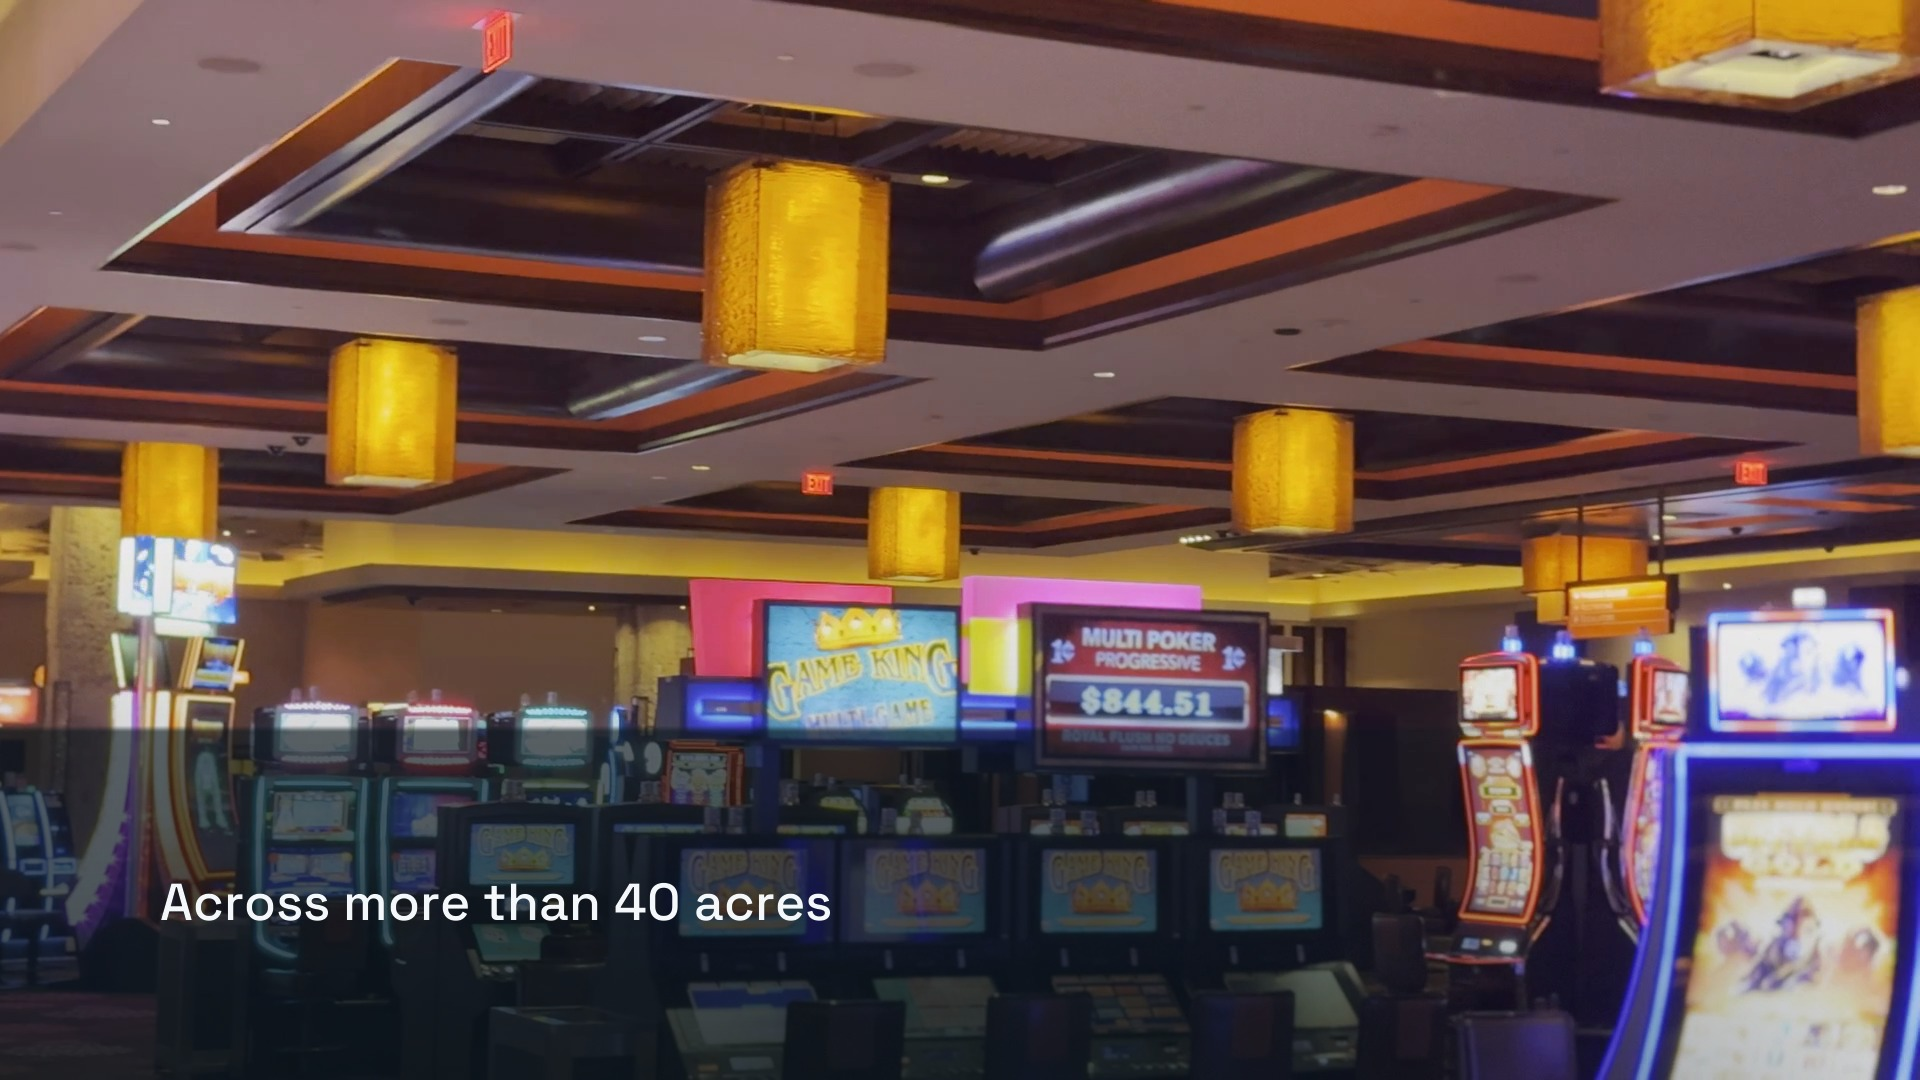
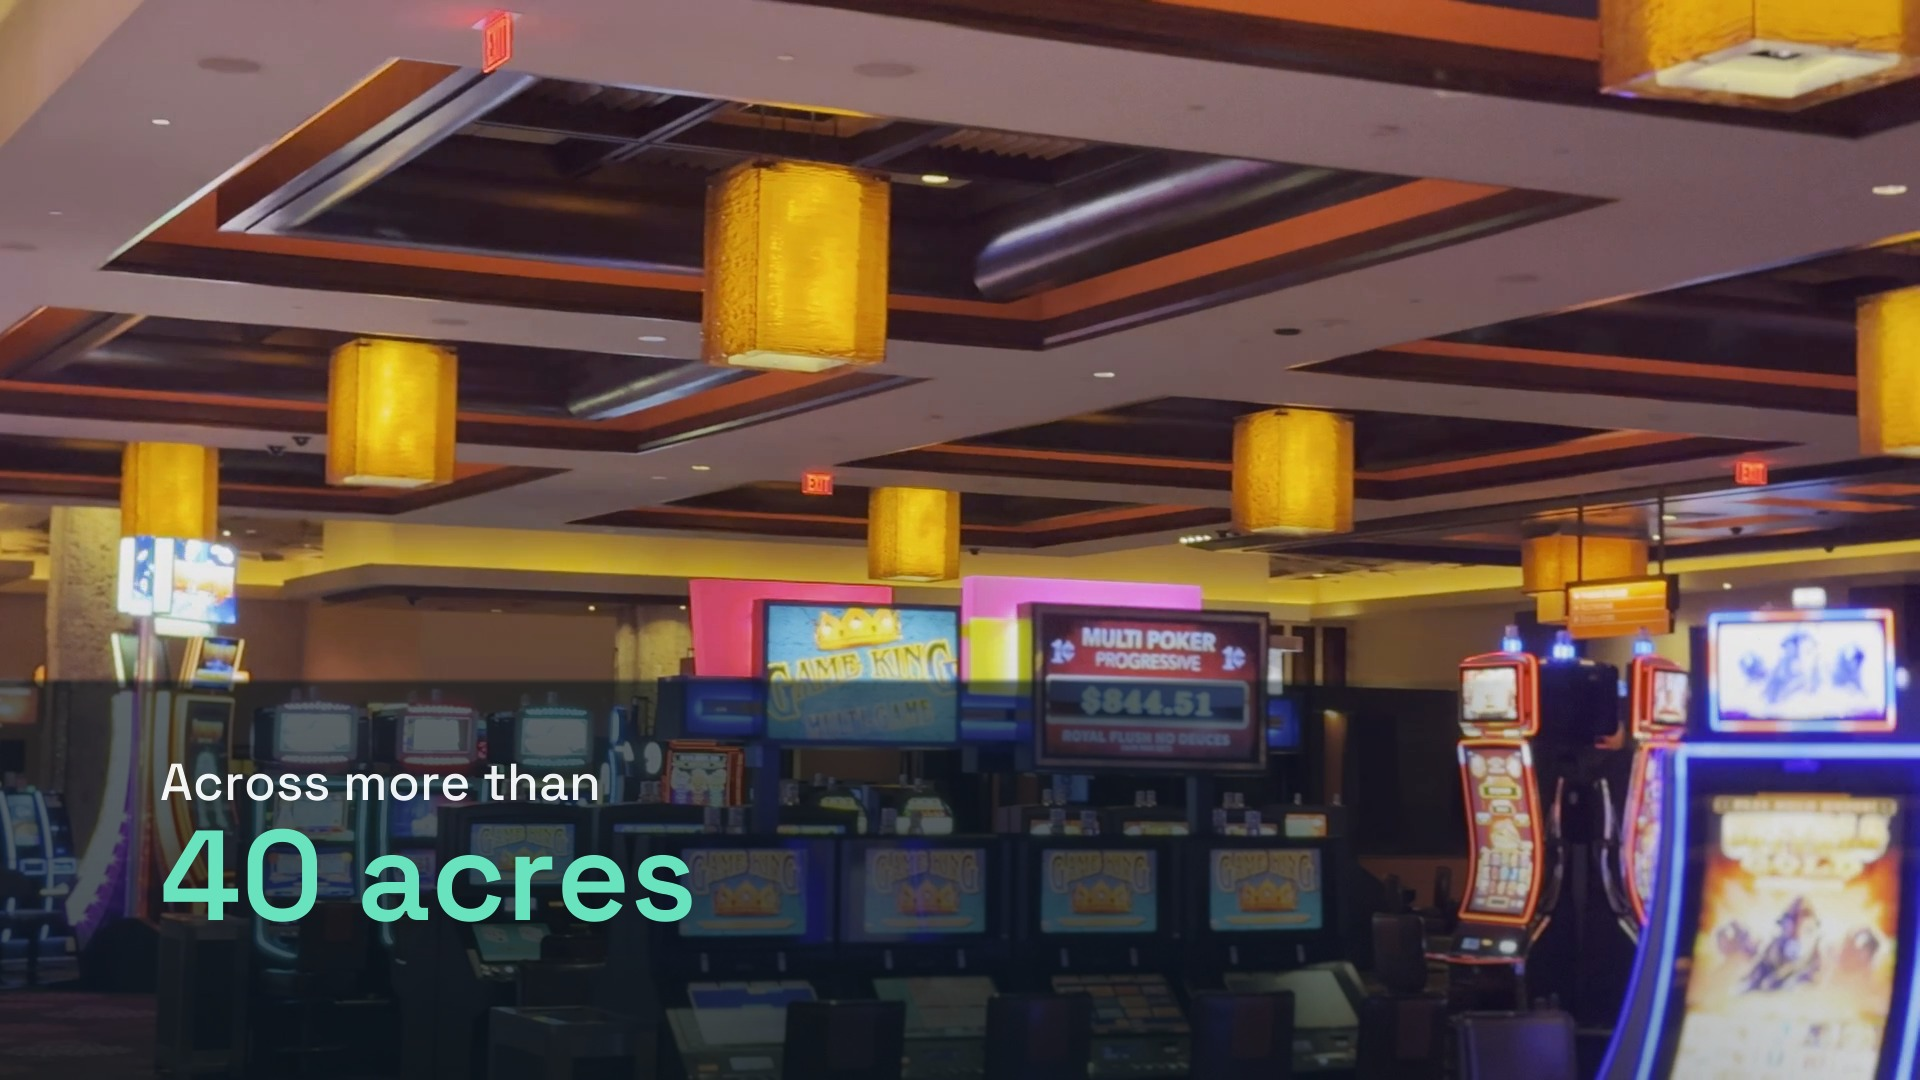
Aliante iMovie card 02 — highlight '40 acres' in mint display scale (matches card 01)
Jane's revise: '40 acres' set in SpaceGrotesk-SemiBold 128px, mint #68E3BE —
same treatment as card 01's '100,000+'. Lead-in 'Across more than' stays
off-white Medium 52 @ 95%. No mint rule. Two-line layout (shared baseline at
128px exceeded the 864 measure; breaking cleanly per brief). S-class plate
(top y=680) matches card 01 geometry. Copy verbatim, no period.

Per-card override of BODY-TREATMENT-LOCK §2/§3.1/§6 (mint type + no rule)
for this card only — not a house rule; lock still governs c02–c19.

Changed region(s): [[0.0, 0.6111, 0.7812, 0.8556]]

diff --git a/video-production/projects/aliante-led/assembly/imovie-handoff-rc2/title-overlays/build_card_02_across_40_acres.py b/video-production/projects/aliante-led/assembly/imovie-handoff-rc2/title-overlays/build_card_02_across_40_acres.py
@@ -1,17 +1,34 @@
 #!/usr/bin/env python3
-"""Render one-off card 02: "Across more than 40 acres" (no period).
+"""Render one-off card 02: "Across more than 40 acres" (no period) — REVISED.
 
 BODY-TREATMENT-LOCK.md rev 2 — two-layer build (bed + plate), N-class geometry.
 One-off card in cards/ (not part of c02-c19 titles.md sequence).
 
-Per-card override (this card only, NOT a house-rule change):
+Jane's rev 11 Sep (this card only — per-card override, NOT a house-rule change):
+  - Highlight "40 acres" the same way as "100,000+" on card 01:
+    SpaceGrotesk-SemiBold display scale (128), color mint #68E3BE.
+  - Lead-in "Across more than" stays readable off-white Medium 52 @ 95%
+    (same hierarchy as "With" on card 01).
   - No mint rule (Jane removed it on card 01; do not bring it back).
-  - No mint type — no display numeral; all words off-white Medium incl "40".
-  - The lock still governs every other body card (c02-c19) unchanged.
+  - Keep plate + bed (rev 2), left-anchored.
+  - Copy verbatim, no period: "Across more than 40 acres"
 
-Variant N: one calm line (fits ~700px inside 864 measure). Left x=160,
-last baseline y=920, N-class plate top edge y=728. Type off-white Medium 52
-(readable, ~48-56; matches card 01 body text for consistency).
+Per-card override of BODY-TREATMENT-LOCK.md (NOT a house-rule change):
+  - §2: "Type is off-white, never mint..."  -> mint goes on "40 acres" here.
+  - §3.1 / §1 / §7: the 56x3 mint rule is removed.
+  - §6: "Nothing after the title slide sets type in mint." -> mint type here.
+  These overrides apply to THIS CARD ONLY. The lock still governs every
+  other body card (c02-c19) unchanged. Only Jane can promote a preference
+  to a universal rule (per the learned-preferences rule, 11 Sep).
+
+Layout: two lines (shared baseline at 128px exceeds the 864 measure, so the
+brief's "break cleanly if measure needs it" fallback applies). Word order
+preserved; "40" stays with "acres" on one line.
+  Line 1: "Across more than" — Medium 52, off-white 95%, baseline y=800
+  Line 2: "40 acres" — SemiBold 128, mint 100%, baseline y=920 (anchor)
+The numeral sits on the anchor at the same 128px display scale as card 01's
+"100,000+", in the same mint #68E3BE. S-class plate (top y=680) matches
+card 01's geometry. 30px gap between line 1 baseline and the numeral cap-top.
 
 Composite order: footage -> bed -> plate -> type (with shadow). No mint rule.
 Never ship plate without bed. No pill, no radius, no centered text.
@@ -30,12 +47,16 @@ CARDS.mkdir(parents=True, exist_ok=True)
 
 W, H = 1920, 1080
 OFF_WHITE = (245, 248, 250)   # #F5F8FA
-NAVY_DEEP = (10, 22, 28)      # #0A161C
+MINT = (104, 227, 190)       # #68E3BE
+NAVY_DEEP = (10, 22, 28)     # #0A161C
 FONT_MEDIUM = FONTS / "SpaceGrotesk-Medium.ttf"
+FONT_SEMIBOLD = FONTS / "SpaceGrotesk-SemiBold.ttf"
 
 LEFT_X = 160
-LAST_BASELINE_Y = 920
+LAST_BASELINE_Y = 920        # anchor — last baseline (line 2, the numeral)
+LINE1_BASELINE_Y = 800        # line 1 (lead-in) — 30px gap above numeral cap-top
 
+# Bed (layer 1) — LOCK §3.2
 BED_PEAK = 0.45
 BED_TOP_Y = 380
 BED_BOTTOM_Y = 1080
@@ -43,8 +64,9 @@ BED_H_FALLOFF_START = 980
 BED_H_FALLOFF_END = 1920
 BED_H_FALLOFF_END_MULT = 0.30
 
+# Plate (layer 2) — LOCK §3.3, S-class (matches card 01's 128px numeral geometry)
 PLATE_DENSITY = 0.62
-PLATE_TOP_Y = 728             # N-class
+PLATE_TOP_Y = 680            # S-class — same as card 01
 PLATE_FULL_DENSITY_X = 1024
 PLATE_FALLOFF_END_X = 1536
 PLATE_FEATHER_PX = 8
@@ -53,10 +75,20 @@ SHADOW_ALPHA = 0.50
 SHADOW_OFFSET = (0, 3)
 SHADOW_BLUR = 22
 
-LINE_TEXT = "Across more than 40 acres"
-MEDIUM_SIZE = 52
-MEDIUM_OPACITY = 1.0
-MEDIUM_TRACKING = 0.52      # +0.01em at 52px
+# Copy (verbatim — Jane's line, no period)
+LEADIN_TEXT = "Across more than"   # Medium 52, off-white 95%
+HIGHLIGHT_TEXT = "40 acres"         # SemiBold 128, mint 100%
+
+# Type sizes — match card 01's numeral pattern
+HIGHLIGHT_SIZE = 128        # SemiBold — display scale, same as card 01's "100,000+"
+MEDIUM_SIZE = 52            # Medium — readable lead-in, same as card 01's "With"
+MEDIUM_OPACITY = 0.95       # ~95%, clearly readable, slightly subordinate
+
+# Tracking
+HIGHLIGHT_TRACKING = -3.84    # -0.03em at 128px (same as card 01 numeral)
+MEDIUM_TRACKING = 0.52        # +0.01em at 52px (same as card 01 lead-in)
+
+MEASURE_LIMIT_X = 1024       # right edge of 864 measure (160 + 864)
 
 
 def run(cmd):
@@ -119,23 +151,38 @@ def _text_width(font, text, tracking):
     return w
 
 
-def draw_line(canvas):
+def draw_two_lines(canvas):
+    """Two-line layout: lead-in (Medium 52, off-white 95%) on line 1, highlight
+    (SemiBold 128, mint 100%) on line 2 (the anchor). Word order preserved;
+    "40" stays with "acres" on one line."""
     font_med = ImageFont.truetype(str(FONT_MEDIUM), MEDIUM_SIZE)
-    fill = (OFF_WHITE[0], OFF_WHITE[1], OFF_WHITE[2], int(round(255 * MEDIUM_OPACITY)))
+    font_semi = ImageFont.truetype(str(FONT_SEMIBOLD), HIGHLIGHT_SIZE)
+    fill_med = (OFF_WHITE[0], OFF_WHITE[1], OFF_WHITE[2], int(round(255 * MEDIUM_OPACITY)))
+    fill_hl = (MINT[0], MINT[1], MINT[2], 255)
+
+    # Shadow layer for both lines
     shadow_layer = Image.new("RGBA", (W, H), (0, 0, 0, 0))
     sd = ImageDraw.Draw(shadow_layer)
-    sd.text((LEFT_X + SHADOW_OFFSET[0], LAST_BASELINE_Y + SHADOW_OFFSET[1]),
-            LINE_TEXT, font=font_med,
+    sd.text((LEFT_X + SHADOW_OFFSET[0], LINE1_BASELINE_Y + SHADOW_OFFSET[1]),
+            LEADIN_TEXT, font=font_med,
             fill=(NAVY_DEEP[0], NAVY_DEEP[1], NAVY_DEEP[2], 255),
             anchor="ls", tracking=MEDIUM_TRACKING)
+    sd.text((LEFT_X + SHADOW_OFFSET[0], LAST_BASELINE_Y + SHADOW_OFFSET[1]),
+            HIGHLIGHT_TEXT, font=font_semi,
+            fill=(NAVY_DEEP[0], NAVY_DEEP[1], NAVY_DEEP[2], 255),
+            anchor="ls", tracking=HIGHLIGHT_TRACKING)
     shadow_layer = shadow_layer.filter(ImageFilter.GaussianBlur(radius=SHADOW_BLUR))
     r, g, b, a = shadow_layer.split()
     a = a.point(lambda v: int(v * SHADOW_ALPHA))
     shadow_layer = Image.merge("RGBA", (r, g, b, a))
     canvas = Image.alpha_composite(canvas, shadow_layer)
+
+    # Actual text
     draw = ImageDraw.Draw(canvas)
-    draw.text((LEFT_X, LAST_BASELINE_Y), LINE_TEXT, font=font_med,
-              fill=fill, anchor="ls", tracking=MEDIUM_TRACKING)
+    draw.text((LEFT_X, LINE1_BASELINE_Y), LEADIN_TEXT, font=font_med,
+              fill=fill_med, anchor="ls", tracking=MEDIUM_TRACKING)
+    draw.text((LEFT_X, LAST_BASELINE_Y), HIGHLIGHT_TEXT, font=font_semi,
+              fill=fill_hl, anchor="ls", tracking=HIGHLIGHT_TRACKING)
     return canvas
 
 
@@ -143,8 +190,42 @@ def render_card():
     canvas = Image.new("RGBA", (W, H), (0, 0, 0, 0))
     canvas = Image.alpha_composite(canvas, build_bed())
     canvas = Image.alpha_composite(canvas, build_plate())
-    canvas = draw_line(canvas)
+    canvas = draw_two_lines(canvas)
     return canvas
+
+
+def main():
+    font_med = ImageFont.truetype(str(FONT_MEDIUM), MEDIUM_SIZE)
+    font_semi = ImageFont.truetype(str(FONT_SEMIBOLD), HIGHLIGHT_SIZE)
+
+    leadin_w = _text_width(font_med, LEADIN_TEXT, MEDIUM_TRACKING)
+    highlight_w = _text_width(font_semi, HIGHLIGHT_TEXT, HIGHLIGHT_TRACKING)
+    line1_right = LEFT_X + leadin_w
+    line2_right = LEFT_X + highlight_w
+
+    print("Layout: two lines (shared baseline at 128px exceeds measure 864;")
+    print("  breaking cleanly per brief). Word order preserved; '40' with 'acres'.")
+    print(f"  line 1: '{LEADIN_TEXT}' Medium 52 off-white 95% -> right x={line1_right} (limit {MEASURE_LIMIT_X})")
+    print(f"  line 2: '{HIGHLIGHT_TEXT}' SemiBold 128 mint -> right x={line2_right} (limit {MEASURE_LIMIT_X})")
+
+    p_overlay = CARDS / "card-02-across-40-acres-transparent.png"
+    overlay = render_card()
+    overlay.save(p_overlay)
+    print(f"\nWROTE {p_overlay.name}  ({p_overlay.stat().st_size} bytes)")
+
+    # Composite over same clip as before
+    clip003 = TIMELINE / "003-s03-Casino 3-gaming-acres.mp4"
+    frame003 = CARDS / "_frame-003-s03-card02.png"
+    grab_frame(clip003, 2.0, frame003)
+    prev = CARDS / "card-02-across-40-acres-preview.jpg"
+    composite(frame003, p_overlay, prev)
+    print(f"WROTE {prev.name}  ({prev.stat().st_size} bytes)")
+
+    if frame003.exists():
+        frame003.unlink()
+
+    print("\nDONE. Revised one-off card 02 files in:")
+    print(f"  {CARDS}")
 
 
 def grab_frame(clip, ts, out):
@@ -160,31 +241,6 @@ def composite(frame_png, overlay_png, out):
     ov = Image.open(overlay_png).convert("RGBA")
     comp = Image.alpha_composite(bg, ov).convert("RGB")
     comp.save(out, quality=92)
-
-
-def main():
-    p_overlay = CARDS / "card-02-across-40-acres-transparent.png"
-    overlay = render_card()
-    overlay.save(p_overlay)
-    print(f"WROTE {p_overlay.name}  ({p_overlay.stat().st_size} bytes)")
-
-    font_med = ImageFont.truetype(str(FONT_MEDIUM), MEDIUM_SIZE)
-    line_w = _text_width(font_med, LINE_TEXT, MEDIUM_TRACKING)
-    line_right = LEFT_X + line_w
-    print(f"  line: '{LINE_TEXT}' w={line_w} -> right x={line_right} (limit 1024)")
-
-    clip003 = TIMELINE / "003-s03-Casino 3-gaming-acres.mp4"
-    frame003 = CARDS / "_frame-003-s03-card02.png"
-    grab_frame(clip003, 2.0, frame003)
-    prev = CARDS / "card-02-across-40-acres-preview.jpg"
-    composite(frame003, p_overlay, prev)
-    print(f"WROTE {prev.name}  ({prev.stat().st_size} bytes)")
-
-    if frame003.exists():
-        frame003.unlink()
-
-    print("\nDONE. One-off card 02 files in:")
-    print(f"  {CARDS}")
 
 
 if __name__ == "__main__":

diff --git a/video-production/projects/aliante-led/assembly/imovie-handoff-rc2/title-overlays/cards/card-02-NOTES.md b/video-production/projects/aliante-led/assembly/imovie-handoff-rc2/title-overlays/cards/card-02-NOTES.md
@@ -1,14 +1,15 @@
 # Card 02 — "Across more than 40 acres" — one-off card
 
 **Rendered:** 11 Sep 2026 · GLM · per `../BODY-TREATMENT-LOCK.md` rev 2 (N-class plate geometry)
+**Revised:** 11 Sep 2026 · GLM · Jane's highlight revise — `40 acres` in mint display scale matching card 01's `100,000+` pattern (see "Jane's rev (this card)" below).
 
-This is a **one-off card** — not part of the c02–c19 sequence in `../titles.md`. It lives in `cards/`, separate from `previews/` which holds the c02 series. Jane asked for this single card with her own line (no period).
+This is a **one-off card** — not part of the c02–c19 sequence in `../titles.md`. It lives in `cards/`, separate from `previews/` which holds the c02 series. Jane asked for this single card with her own line (no period), then locked a highlight treatment matching card 01.
 
 ## Files
 
 | File | What it is |
 |---|---|
-| `card-02-across-40-acres-transparent.png` | Transparent 1920×1080 overlay — bed + plate + single-line narrative (**no mint rule**; all text off-white Medium) |
+| `card-02-across-40-acres-transparent.png` | Transparent 1920×1080 overlay — bed + plate + two-line lockup (**no mint rule**; lead-in off-white Medium, `40 acres` mint SemiBold 128) |
 | `card-02-across-40-acres-preview.jpg` | Same overlay composited over a frame from `../../timeline/003-s03-Casino 3-gaming-acres.mp4` (~2.0s) |
 
 ## Copy (verbatim — Jane's line; no period)
@@ -17,51 +18,70 @@ This is a **one-off card** — not part of the c02–c19 sequence in `../titles.
 
 No trailing period. Word order preserved. Not in `titles.md` — this is Jane's new line for this card only. (The `titles.md` c03 string `Across more than 40 acres.` has a period; this one-off card does not.)
 
-## Per-card override of BODY-TREATMENT-LOCK.md (NOT a house-rule change)
+## Jane's rev (this card — 11 Sep)
 
-This card overrides one clause in `../BODY-TREATMENT-LOCK.md` **for this card only**:
+Jane locked a highlight treatment for this card matching card 01's numeral pattern:
 
-- §3.1 / §1 / §7: the 56×3 mint rule is **removed**. Jane removed it on card 01 — looked weird; do not bring it back. The plate top edge stays at the N-class `y=728`; the headroom above the text reads as margin, which is correct per lock §3.3.
+1. **`40 acres` in LUCI mint `#68E3BE`** — SpaceGrotesk-SemiBold, display scale 128px (same size and color as card 01's `100,000+`).
+2. **`Across more than` stays off-white Medium 52 @ 95%** — readable lead-in, same hierarchy as `With` on card 01.
+3. **No mint rule** — Jane removed it on card 01; do not bring it back.
+4. **Keep plate + bed (rev 2), left-anchored.**
 
-No mint type appears on this card — consistent with lock §2 ("Type is off-white, never mint. Body cards get mint only as the 3px rule"). Since the rule is removed and there is no display-numeral ask, all words are off-white Medium, including `40`.
+### Layout — two lines (shared baseline exceeded measure)
 
-The lock still governs every other body card (c02–c19) unchanged — the no-rule override is not promoted to a house rule. Only Jane can promote a preference to a universal rule (per the learned-preferences rule, 11 Sep).
+The brief's preferred layout was a shared baseline (`Across more than` + `40 acres` on one line). At 128px the combined width is 982px — exceeds the 864 measure (right x=1142, limit 1024). Per the brief's "break cleanly if measure needs it" fallback, the card breaks to two lines:
+
+- **Line 1:** `Across more than` — Medium 52, off-white 95%, baseline y=800
+- **Line 2:** `40 acres` — SemiBold 128, mint 100%, baseline y=920 (anchor)
+
+Word order preserved; `40` stays with `acres` on one line (never split). The numeral sits on the anchor at the same 128px display scale as card 01's `100,000+`, in the same mint. A 30px gap separates line 1's baseline from the numeral's cap-top (y=830). S-class plate (top y=680) matches card 01's geometry for consistency across the two one-off cards.
+
+### Per-card override of BODY-TREATMENT-LOCK.md (NOT a house-rule change)
+
+This card overrides three clauses in `../BODY-TREATMENT-LOCK.md` **for this card only**:
+
+- §2: *"Type is off-white, never mint. Mint type belongs to Jane's title. Body cards get mint only as the 3px rule."* — mint goes on `40 acres` here.
+- §3.1 / §1 / §7: the 56×3 mint rule is **removed**. Jane removed it on card 01; do not bring it back. The plate top edge stays at y=680 (S-class); headroom reads as margin.
+- §6: *"Nothing after the title slide sets type in mint."* — mint type appears on this card.
+
+The lock still governs every other body card (c02–c19) unchanged — mint as type is not promoted to a house rule. Only Jane can promote a preference to a universal rule (per the learned-preferences rule, 11 Sep).
 
 ## Type spec
 
 | Element | Font | Size | Tracking | Color / opacity | Baseline |
 |---|---|---|---|---|---|
-| `Across more than 40 acres` (single line) | SpaceGrotesk-Medium | 52 | +0.01em | off-white `#F5F8FA` 100% | y=920 (anchor) |
+| `Across more than` (line 1, lead-in) | SpaceGrotesk-Medium | 52 | +0.01em | off-white `#F5F8FA` 95% | y=800 |
+| `40 acres` (line 2, highlight) | SpaceGrotesk-SemiBold | 128 | -0.03em | **mint `#68E3BE` 100%** | y=920 (anchor) |
 
-**Layout:** one calm line. The string measures 684px at Medium 52 (+0.01em), right edge `x=844` — well inside the 864 measure (limit `x=1024`). No second line needed.
+**Hierarchy:** numeral 128px vs lead-in 52px = 2.46× font-size ratio (cap-height 91px vs 35px = 2.60×). Same scale ratio as card 01 (2.46× font-size, 2.49× cap-height). The mint color adds a second emphasis axis on top of the scale, matching card 01 exactly.
 
-**Size choice:** 52px sits inside the brief's ~48–56 range and matches card 01's body-text size (52) for consistency across the one-off cards in `cards/`. The lock's N-variant default is 48; the brief authorized the range and emphasized readability.
-
-## Plate / bed spec (from BODY-TREATMENT-LOCK.md rev 2 — N-class)
+## Plate / bed spec (from BODY-TREATMENT-LOCK.md rev 2 — S-class, matching card 01)
 
 | Element | Spec |
 |---|---|
 | Bed (layer 1) | `#0A161C`, alpha 0.00 @ y=380 → 0.45 @ y=1080, quadratic ease; horizontal falloff 1.00 → 0.30 at x=1920; full-bleed, no edges |
-| Plate (layer 2) | `#0A161C` @ 0.62; y=728→1080, x=0→1536; bleeds left + bottom; top edge hard at y=728, radius 0, 8px feather; full density to x=1024, quadratic ease to 0.00 at x=1536 |
-| ~~Mint rule~~ | **Removed on this card** (per-card override). Plate top edge stays at y=728; headroom reads as margin. |
+| Plate (layer 2) | `#0A161C` @ 0.62; y=680→1080, x=0→1536; bleeds left + bottom; top edge hard at y=680, radius 0, 8px feather; full density to x=1024, quadratic ease to 0.00 at x=1536 |
+| ~~Mint rule~~ | **Removed on this card** (per-card override). Plate top edge stays at y=680; headroom reads as margin. |
 | Shadow | `#0A161C` @ 50%, offset (0,3), blur 22 — soft, no stroke |
 | Anchor | left x=160, last baseline y=920 |
-| Measure | 864 (right edge x=1024) — line right edge x=844, inside |
+| Measure | 864 (right edge x=1024) — line 1 right edge x=609, line 2 right edge x=670, both inside |
 | Composite order | footage → bed → plate → type (with shadow) — **mint rule step removed** |
 
-## Verification (mechanical — 11 Sep)
+## Verification (mechanical — 11 Sep rev)
 
 - Both files 1920×1080 (transparent RGBA / preview RGB) ✓
-- **Mint rule region (x=160–216, y=791–794): 0 mint pixels** — rule is gone ✓
-- **Tight mint check (within 30 of #68E3BE): 0 px anywhere in overlay** — no mint type, no mint rule ✓
-- Text is off-white: 6,026 pure off-white px in type zone; bright text avg RGB (219,223,225) — off-white, not mint ✓
+- **Mint rule region (x=160–216, y=788–797): 0 mint px** — rule is gone ✓
+- **`40 acres` is mint `#68E3BE`**: 15,740 mint px in highlight zone; 0 stray mint outside bbox (x=164–690, y=829–920) ✓
+- `Across more than` is off-white (4,005 off-white px, bbox x=162–596, y=764–799) ✓
+- Mint (line 2) below off-white (line 1): mint y-min 829 > off-white y-min 764 ✓
 - Top-right corner max alpha = 0 (transparent, open frame, iMovie-ready) ✓
-- Plate-zone mean alpha: ~0.725 (within 0.62–0.80 target) ✓
-- Plate top edge steps up at y=728 (N-class): 0.106 @ y=724 → 0.384 @ y=728 → 0.663 @ y=732 ✓
-- Left bleed (y900–1080, x0–4) mean alpha 0.750; bottom bleed 0.787 — plate bleeds off left + bottom ✓
-- Single line, right edge x=844, inside measure 864 ✓
-- No pill, no radius, no centered text, no second ornament ✓
+- Plate-zone mean alpha: ~0.760 (within 0.62–0.80 target) ✓
+- Plate top edge steps up at y=680 (S-class): 0.078 @ y=676 → 0.365 @ y=680 → 0.651 @ y=684 ✓
+- Both lines inside measure 864 (right edges 609 and 670, limit 1024) ✓
+- Font-size ratio 128/52 = 2.46× (matches card 01 exactly) ✓
+- Numeral cap-height 91px vs lead-in cap-height 35px = 2.60× (clearly larger) ✓
 - Copy byte-identical to brief: `Across more than 40 acres` (no period) ✓
+- No pill, no radius, no centered text, no second ornament ✓
 
 ## Build script
 
